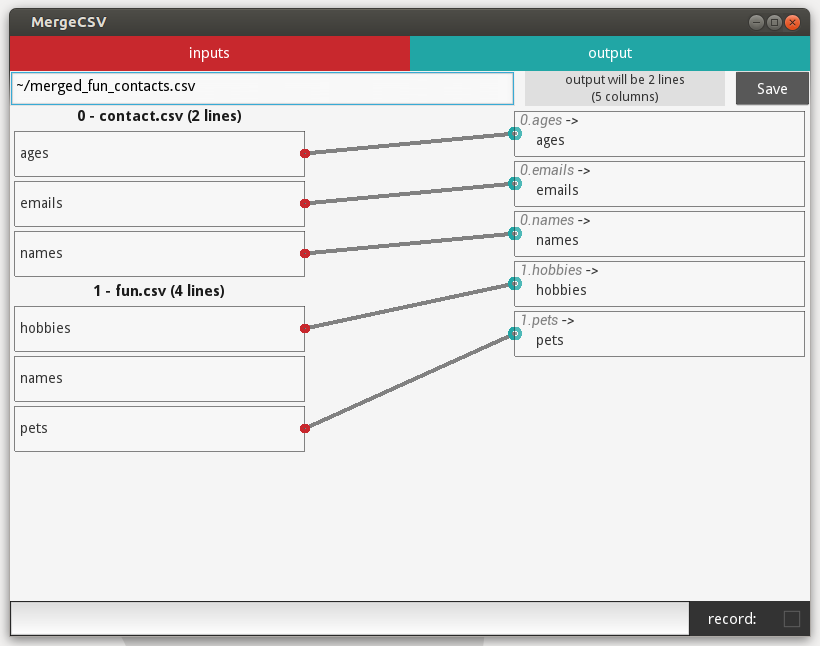
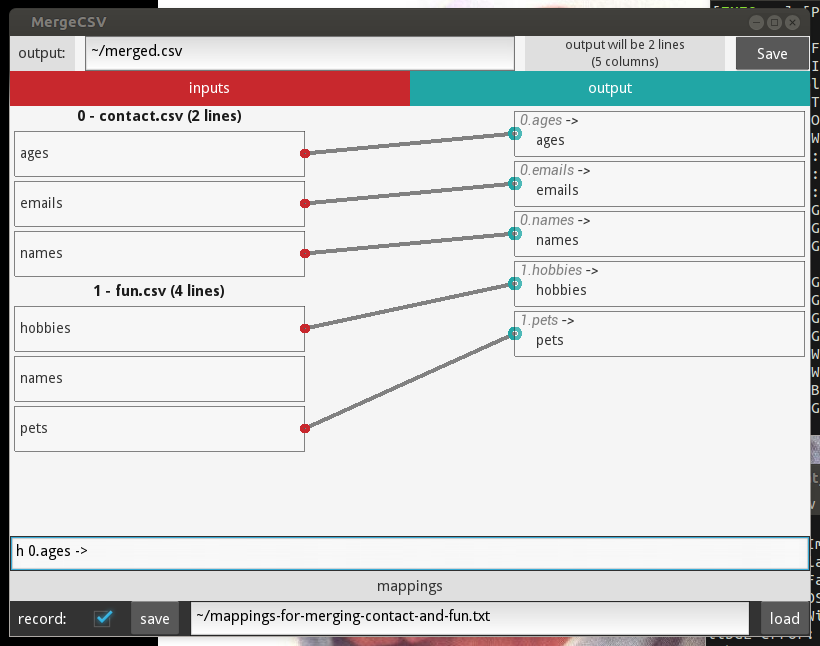
Improve mapping saving functionality and layout.
Update and complete documentation.

Changed region(s): [[0.0, 0.0, 1.0, 1.0]]

diff --git a/main.py b/main.py
@@ -252,6 +252,16 @@ class AppRoot(BoxLayout):
         except IOError as err:
             toast(str(err), width='700dp')
 
+    def save_mapping_file(self, fpath):
+        fpath = expand_path(fpath)
+
+        try:
+            f = open(fpath, 'w')
+            f.write(self.ids.cmd_box.recorded)
+            f.close()
+        except IOError as err:
+            toast(str(err), width='700dp')
+
 
 class MergeCSVApp(App):
     in_files = ListProperty([])

diff --git a/README.md b/README.md
@@ -4,14 +4,28 @@ A simple [Kivy](http://kivy.org) application for merging CSV files.
 
 This is not a particularly "clean" or well-structured application.  I share it in case it may be useful or inspire some idea.
 
-## Usage
+## Basic Usage
 
+```
 python main.py CSV_INPUT_ONE CSV_INPUT_TWO . . . CSV_INPUT_N
+```
 
 To remove a field from the output, double-click on the field in the output column.
 
-To add or redirect a field in the input, either double-click on the input field twice, or double-click once, enter the name your want the field to have in the output, and press enter.
+To add or redirect a field in the input, either double-click on the input field twice, or double-click once, enter the name your want the field to have in the output, and press enter. 
 
 ## Screenshot
 
 ![screenshot](docs/screenshot.png)
+
+## Saving and Loading Mappings
+
+This feature allows you to save all of your actions, and re-apply them to similar files.
+
+If you check "record" in the bottom-left of the screen, all of the field removing/renaming/adding will be recorded.  You can save this recording to a text file by entering a path into the text field between the "save" and "load" buttons.  To load and apply a mappings file, enter a path and click "load."
+
+**NOTE**: saving will not warn you if you are going to overwrite a file.
+
+## Misc.
+
+**NOTE**: when saving the merged output, the output is written to a temporary file and then copied to the path you specify.  Thus, if you are saving over a file and something goes wrong, the file you're overwriting won't be corrupted.
